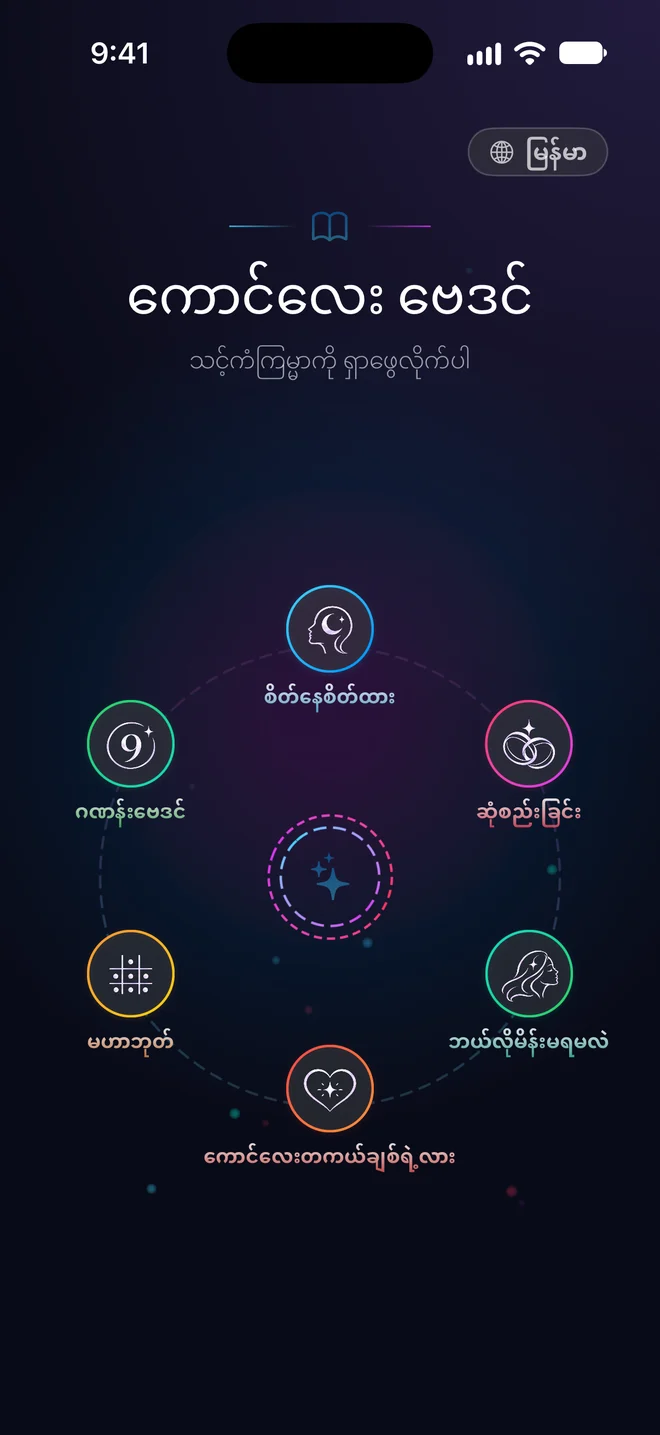
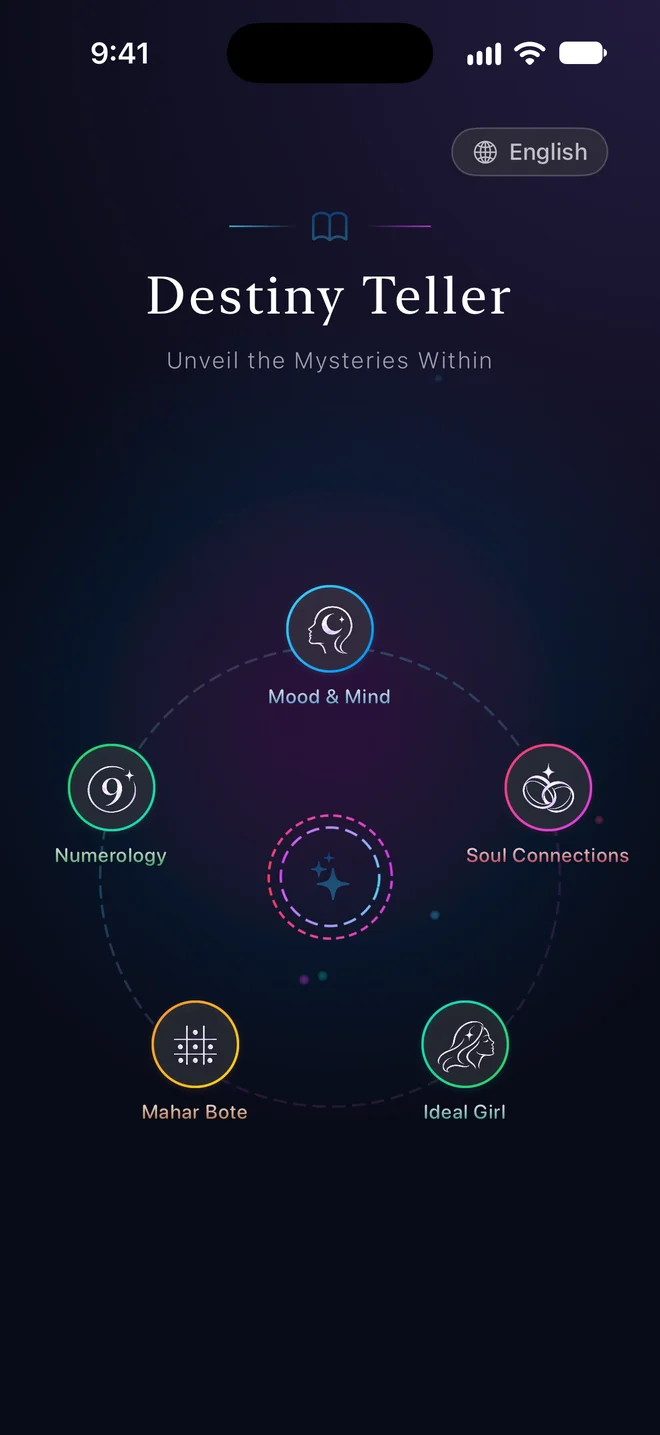
Home slider: autoplay with entrance animation; Destiny Teller last, in English
The slider moves on every six seconds while it's on screen, the selected
dot filling as it goes; it pauses on hover, focus or touch, off-screen,
in a hidden tab and for reduced motion, and wraps straight back to the
first slide. The slide in view animates in: the phone rises and turns
into place, then the words follow one by one. Destiny Teller now comes
after Kanjiyama and Kotoba Master and shows its English home screen.

On the Destiny Teller page the sky is denser and brighter, with more
sparkles, glowing motes drifting up and more shooting stars.

diff --git a/index.html b/index.html
@@ -164,8 +164,18 @@
         .slide { flex: 0 0 100%; scroll-snap-align: center; display: grid; grid-template-columns: 0.9fr 1.1fr; gap: 50px; align-items: center; padding: 60px 60px 50px; border-radius: 28px; position: relative; overflow: hidden;
                  background: radial-gradient(120% 90% at 0% 0%, color-mix(in srgb, var(--accent) 22%, transparent), transparent 60%), rgba(30, 41, 59, 0.35); border: 1px solid var(--border-color); }
         .slide .glyph-bg { position: absolute; right: -40px; bottom: -120px; font-size: 420px; line-height: 1; font-weight: 700; color: var(--accent); opacity: .06; pointer-events: none; font-family: 'Hiragino Mincho ProN', 'Yu Mincho', serif; }
-        .slide .app-mockup { transform: rotateZ(-4deg); width: 280px; height: auto; aspect-ratio: 1320 / 2868; border-width: 10px; }
-        .slide:hover .app-mockup { transform: rotateZ(0) scale(1.03); }
+        /* The slide in view animates in: phone first, then the words, one by one. */
+        .slide .app-mockup, .slide .slide-head, .slide .app-description, .slide .app-tech, .slide .slide-actions { opacity: 0; transition: opacity .7s ease, transform .9s cubic-bezier(.2, .8, .2, 1); }
+        .slide .app-mockup { transform: translateY(40px) rotateZ(-10deg) scale(.94); }
+        .slide .slide-head, .slide .app-description, .slide .app-tech, .slide .slide-actions { transform: translateX(30px); }
+        .slide.active .app-mockup { opacity: 1; transform: rotateZ(-4deg); }
+        .slide.active .slide-head, .slide.active .app-description, .slide.active .app-tech, .slide.active .slide-actions { opacity: 1; transform: none; }
+        .slide.active .slide-head { transition-delay: .15s; } .slide.active .app-description { transition-delay: .25s; }
+        .slide.active .app-tech { transition-delay: .35s; } .slide.active .slide-actions { transition-delay: .45s; }
+        .slide.active .glyph-bg { animation: glyph 8s ease-in-out infinite alternate; }
+        @keyframes glyph { to { transform: translate(-30px, -20px) rotate(-6deg); opacity: .09; } }
+        .slide .app-mockup { width: 280px; height: auto; aspect-ratio: 1320 / 2868; border-width: 10px; }
+        .slide.active:hover .app-mockup { transform: rotateZ(0) scale(1.03); transition-delay: 0s; }
         .slide .app-mockup img { width: 100%; height: 100%; object-fit: cover; object-position: top; border-radius: 30px; display: block; }
         .slide-head { display: flex; align-items: center; gap: 16px; margin-bottom: 18px; }
         .slide-head img { width: 64px; height: 64px; border-radius: 15px; box-shadow: 0 10px 30px rgba(0,0,0,.35); }
@@ -185,7 +195,16 @@
         .slider-btn:hover { border-color: var(--mid-purple); transform: translateY(-2px); }
         .dots { display: flex; gap: 8px; }
         .dots button { width: 9px; height: 9px; border-radius: 99px; border: 0; background: rgba(255,255,255,.25); cursor: pointer; transition: all .3s ease; padding: 0; }
-        .dots button[aria-selected="true"] { width: 28px; background: var(--light-purple); }
+        .dots button[aria-selected="true"] { width: 34px; background: rgba(255,255,255,.25); position: relative; overflow: hidden; }
+        /* The selected dot fills while the slide is shown, then the next comes. */
+        .dots button[aria-selected="true"]::after { content: ''; position: absolute; inset: 0; background: var(--light-purple); transform-origin: left; animation: dotfill var(--autoplay, 6s) linear forwards; }
+        .slider.paused .dots button[aria-selected="true"]::after { animation: none; transform: none; }
+        @keyframes dotfill { from { transform: scaleX(0); } to { transform: scaleX(1); } }
+        @media (prefers-reduced-motion: reduce) {
+            .slide .app-mockup, .slide .slide-head, .slide .app-description, .slide .app-tech, .slide .slide-actions { opacity: 1; transform: none; transition: none; }
+            .slide .app-mockup { transform: rotateZ(-4deg); }
+            .slide.active .glyph-bg { animation: none; }
+        }
         @media (max-width: 900px) {
             .slide { grid-template-columns: 1fr; text-align: center; padding: 44px 24px 36px; gap: 30px; }
             .slide .app-mockup { width: 220px; margin-bottom: 0; }
@@ -342,19 +361,6 @@
             // Featured apps, newest first. Store links: a URL, '' for "Coming soon", or null when the app isn't on that store.
             const FEATURED_APPS = [
                 {
-                    name: 'Destiny Teller',
-                    kicker: 'Myanmar astrology · iPhone, iPad, iPhone Duo',
-                    glyph: '✦',
-                    accent: '#8f7ff0',
-                    icon: 'assets/apps/destiny-teller-icon.png',
-                    screen: 'assets/apps/destiny-teller-home.webp',
-                    description: 'Kglay Baydin, on the App Store since 2014, rebuilt from scratch in SwiftUI: six traditional Myanmar fortune readings from your birth date and weekday, with the real Thingyan New Year, in seven languages. Every formula is tested against the Objective-C original, and the layout adapts to iPad and the open iPhone Duo. Free, no ads, no data collected.',
-                    tags: ['SwiftUI', 'Swift Testing', 'String Catalogs', '7 languages', 'iPad & iPhone Duo'],
-                    page: 'destiny-teller/',
-                    appStore: 'https://apps.apple.com/app/id760265916',
-                    playStore: null,
-                },
-                {
                     name: 'Kanjiyama',
                     kicker: 'JLPT kanji · iPhone, iPad, Android',
                     glyph: '山',
@@ -378,6 +384,19 @@
                     tags: ['SwiftUI', 'Clean Architecture', 'GRDB', 'Firebase Analytics', 'Google AdMob'],
                     page: 'kotoba-master/',
                     appStore: 'https://apps.apple.com/us/app/kotoba-master/id6748649009',
+                    playStore: null,
+                },
+                {
+                    name: 'Destiny Teller',
+                    kicker: 'Myanmar astrology · iPhone, iPad, iPhone Duo',
+                    glyph: '✦',
+                    accent: '#8f7ff0',
+                    icon: 'assets/apps/destiny-teller-icon.png',
+                    screen: 'assets/apps/destiny-teller-home.webp',
+                    description: 'Kglay Baydin, on the App Store since 2014, rebuilt from scratch in SwiftUI: six traditional Myanmar fortune readings from your birth date and weekday, with the real Thingyan New Year, in seven languages. Every formula is tested against the Objective-C original, and the layout adapts to iPad and the open iPhone Duo. Free, no ads, no data collected.',
+                    tags: ['SwiftUI', 'Swift Testing', 'String Catalogs', '7 languages', 'iPad & iPhone Duo'],
+                    page: 'destiny-teller/',
+                    appStore: 'https://apps.apple.com/app/id760265916',
                     playStore: null,
                 },
             ];
@@ -414,16 +433,52 @@
                 const dot = document.createElement('button');
                 dot.setAttribute('role', 'tab');
                 dot.setAttribute('aria-label', app.name);
-                dot.addEventListener('click', () => slides.scrollTo({ left: i * slides.clientWidth }));
+                dot.addEventListener('click', () => slides.scrollTo({ left: i * slides.clientWidth, behavior: 'smooth' }));
                 dots.append(dot);
             });
+            const slider = slides.parentElement;
+            const n = FEATURED_APPS.length;
             const current = () => Math.round(slides.scrollLeft / slides.clientWidth);
-            const syncDots = () => [...dots.children].forEach((d, i) => d.setAttribute('aria-selected', i === current()));
-            slides.addEventListener('scroll', syncDots, { passive: true });
-            syncDots();
+            let shown = -1;
+            const sync = () => {
+                const i = current();
+                if (i === shown) return;
+                shown = i;
+                [...dots.children].forEach((d, k) => d.setAttribute('aria-selected', k === i));
+                [...slides.children].forEach((s, k) => s.classList.toggle('active', k === i));
+            };
+            slides.addEventListener('scroll', sync, { passive: true });
+            sync();
+            // Back to the first slide without scrolling past the others.
+            const go = (i) => slides.scrollTo({ left: i * slides.clientWidth, behavior: i === 0 && shown === n - 1 ? 'instant' : 'smooth' });
+
+            // Autoplay: next slide every few seconds while the slider is on screen,
+            // paused on hover, focus or touch, and off for reduced motion.
+            const dwell = 6000;
+            slider.style.setProperty('--autoplay', dwell + 'ms');
+            const still = matchMedia('(prefers-reduced-motion: reduce)').matches;
+            let timer = null, visible = false, held = false;
+            const restart = () => {
+                clearTimeout(timer);
+                const playing = visible && !held && !still && !document.hidden;
+                slider.classList.toggle('paused', !playing);
+                if (!playing) return;
+                // Restart the dot's fill to match the timer.
+                const dot = dots.children[shown];
+                if (dot) { dot.removeAttribute('aria-selected'); dot.offsetWidth; dot.setAttribute('aria-selected', 'true'); }
+                timer = setTimeout(() => { go((current() + 1) % n); setTimeout(restart, 900); }, dwell);
+            };
+            new IntersectionObserver(([e]) => { visible = e.isIntersecting; restart(); }, { threshold: .4 }).observe(slider);
+            slider.addEventListener('mouseenter', () => { held = true; restart(); });
+            slider.addEventListener('mouseleave', () => { held = false; restart(); });
+            slider.addEventListener('focusin', () => { held = true; restart(); });
+            slider.addEventListener('focusout', () => { held = false; restart(); });
+            slides.addEventListener('touchstart', () => { held = true; restart(); }, { passive: true });
+            slides.addEventListener('touchend', () => setTimeout(() => { held = false; restart(); }, 4000), { passive: true });
+            document.addEventListener('visibilitychange', restart);
+
             document.querySelectorAll('.slider-btn').forEach((b) => b.addEventListener('click', () => {
-                const n = FEATURED_APPS.length;
-                slides.scrollTo({ left: ((current() + Number(b.dataset.dir) + n) % n) * slides.clientWidth });
+                go((current() + Number(b.dataset.dir) + n) % n);
             }));
             const menuBtn = document.querySelector('.mobile-menu-btn');
             const menu = document.getElementById('mobile-menu');

diff --git a/destiny-teller/index.html b/destiny-teller/index.html
@@ -380,7 +380,7 @@
       const ctx = canvas.getContext('2d');
       let seed = 7;
       const rand = () => (seed = (seed * 16807) % 2147483647) / 2147483647;
-      let stars = [], w = 0, h = 0, shooting = null, nextShot = 3000, last = 0;
+      let stars = [], dust = [], w = 0, h = 0, shooting = null, nextShot = 2500, last = 0;
 
       // A soft glowing dot, and a four-point sparkle for the brightest stars.
       const sprite = (rgb, size, sparkle) => {
@@ -413,15 +413,20 @@
         canvas.width = w * dpr; canvas.height = h * dpr;
         ctx.setTransform(dpr, 0, 0, dpr, 0, 0);
         seed = 7;
-        stars = Array.from({ length: Math.min(260, Math.round(w * h / 6500)) }, () => {
-          const r = rand(), big = r < .07;
+        stars = Array.from({ length: Math.min(380, Math.round(w * h / 4200)) }, () => {
+          const r = rand(), big = r < .1;
           return {
             x: rand() * w, y: rand() * h, big,
-            size: big ? 26 + rand() * 18 : 5 + rand() * 9,
-            sprite: big ? sprites.sparkle : r < .25 ? sprites.lavender : r < .3 ? sprites.gold : sprites.white,
-            peak: big ? 1 : .55 + rand() * .45, speed: .35 + rand() * 1.3, phase: rand() * 6.3,
+            size: big ? 34 + rand() * 26 : 7 + rand() * 11,
+            sprite: big ? sprites.sparkle : r < .3 ? sprites.lavender : r < .36 ? sprites.gold : sprites.white,
+            peak: big ? 1 : .7 + rand() * .3, speed: .4 + rand() * 1.4, phase: rand() * 6.3,
           };
         });
+        // Glowing motes drifting slowly up through the sky.
+        dust = Array.from({ length: Math.round(Math.min(70, w * h / 22000)) }, () => ({
+          x: rand() * w, y: rand() * h, size: 10 + rand() * 18, vy: 6 + rand() * 14, sway: 8 + rand() * 20,
+          phase: rand() * 6.3, sprite: rand() < .7 ? sprites.lavender : sprites.gold, peak: .35 + rand() * .4,
+        }));
       };
       const draw = (t) => {
         if (!still) requestAnimationFrame(draw);
@@ -430,16 +435,23 @@
         ctx.clearRect(0, 0, w, h);
         for (const s of stars) {
           // Fades from almost nothing to bright and back, each star at its own pace.
-          const k = still ? .7 : Math.pow(.5 + .5 * Math.sin(t / 1000 * s.speed + s.phase), 3);
-          ctx.globalAlpha = s.peak * (.06 + .94 * k);
-          const size = s.big ? s.size * (.55 + .45 * k) : s.size;
+          const k = still ? .7 : Math.pow(.5 + .5 * Math.sin(t / 1000 * s.speed + s.phase), 2);
+          ctx.globalAlpha = s.peak * (.1 + .9 * k);
+          const size = s.big ? s.size * (.45 + .55 * k) : s.size * (.8 + .2 * k);
           ctx.drawImage(s.sprite, s.x - size / 2, s.y - size / 2, size, size);
+        }
+        for (const d of dust) {
+          const sec = t / 1000;
+          const y = still ? d.y : ((d.y - sec * d.vy) % h + h) % h;
+          const x = d.x + (still ? 0 : Math.sin(sec * .4 + d.phase) * d.sway);
+          ctx.globalAlpha = d.peak * (still ? .6 : .55 + .45 * Math.sin(sec * .9 + d.phase));
+          ctx.drawImage(d.sprite, x - d.size / 2, y - d.size / 2, d.size, d.size);
         }
         ctx.globalAlpha = 1;
         if (!still) {
           if (!shooting && t > nextShot) {
             shooting = { x: Math.random() * w * .7 + w * .25, y: Math.random() * h * .4, life: 0 };
-            nextShot = t + 5000 + Math.random() * 6000;
+            nextShot = t + 3500 + Math.random() * 5000;
           }
           if (shooting) {
             const s = shooting, p = s.life / 1000, len = 160;
